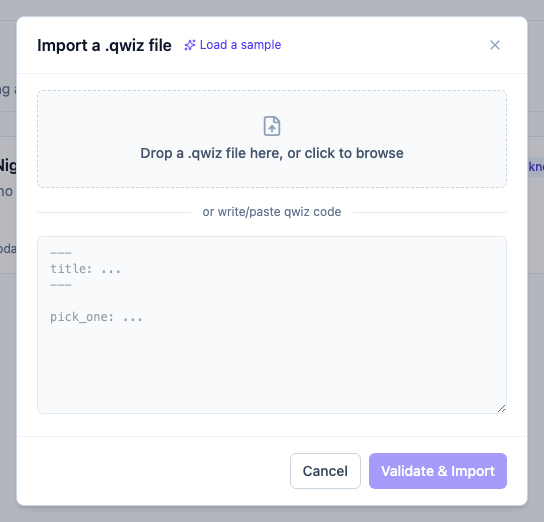
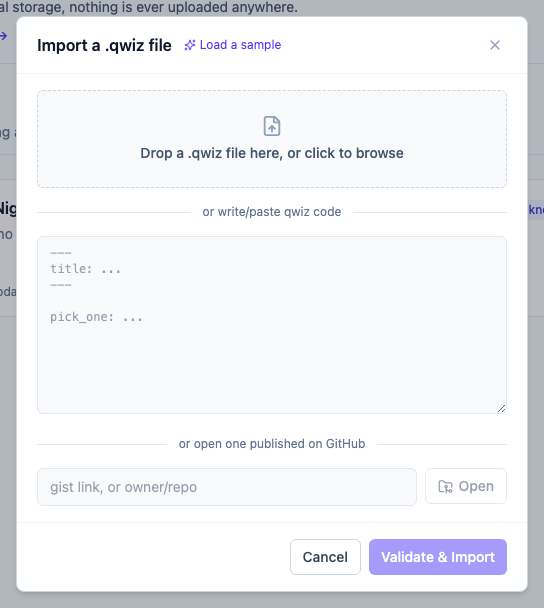
Document the .qwizgroup format, and generate its screenshots
Finishes the docs for the GitHub feature.

docs/llm-reference.md gains §11 on the manifest — text-only, per that file's
own rule, since it exists to be handed to a model in one piece and images are
dead weight there. Also corrects a pre-existing error in its checklist, which
said "one of the eight" variants where the rest of the document correctly says
nine.

Two new generated screenshots, wired into introduction.md and
qwizgroup-format.md: a folders group, and a journey part-way through — one
cleared, one open, one locked, which is the only state that shows what the
mode actually does. Both stub GitHub through the same e2e/utils/github.ts the
test suite uses: a screenshot run must no more depend on a real repository
being reachable than a test run does, and the stub is also what keeps the
images deterministic.

import.png is regenerated because the dialog grew the "open one published on
GitHub" field. Everything else re-rendered byte-identical, which is the
determinism pinning in capture.spec.ts doing its job.

CLAUDE.md records the routing split (folders and journey stay on /group as
browsing screens; the four single-sitting modes live on /group/play) and the
honest cost of each mode, so the next session doesn't rebuild machinery for
the ones that are free.

Final state: 727 unit tests, 884 e2e across four browsers, coverage 93.91%.

diff --git a/screenshots/capture.spec.ts b/screenshots/capture.spec.ts
@@ -4,6 +4,7 @@ import type { Quiz } from '../src/lib/schemas/quiz';
 import { BuilderPage } from '../e2e/pages/BuilderPage';
 import { PlayPage } from '../e2e/pages/PlayPage';
 import { resetStorage, seedQuizzes } from '../e2e/utils/storage';
+import { stubRepo } from '../e2e/utils/github';
 
 // Generates every screenshot in docs/screenshots/, so the images in the README and the docs can be
 // REGENERATED rather than re-captured by hand. The three that existed before this file were taken
@@ -467,4 +468,125 @@ test('settings and import', async ({ page }) => {
   await builder.gotoEdit('shot-settings');
   await builder.shareLink();
   await shotPadded(page, 'share-dialog', page.getByRole('dialog'));
+});
+
+// A quiz group published on GitHub. Stubbed exactly as the e2e suite stubs it (see
+// e2e/utils/github.ts) — a screenshot run must no more depend on a real repository being reachable
+// than a test run does, and a stub also keeps the content deterministic.
+test('quiz groups from GitHub', async ({ page }) => {
+  await page.goto('/');
+  await resetStorage(page);
+
+  const round = (title: string, question: string, right: string, wrong: string) =>
+    [
+      '---',
+      `title: ${title}`,
+      ':shuffle_questions=false',
+      '---',
+      '',
+      question,
+      '{',
+      `=${right}`,
+      `~${wrong}`,
+      '}'
+    ].join('\n');
+
+  await stubRepo(page, 'qwiz-quizzes', 'pub-quiz', {
+    files: {
+      '.qwizgroup': [
+        '---',
+        'title: Thursday Night Quiz',
+        'description: Every round we have ever run, from the easy opener to the decider.',
+        ':mode=folders',
+        '---',
+        '',
+        'quiz: rounds/general-knowledge.qwiz',
+        'title: General Knowledge',
+        '',
+        'quiz: rounds/music.qwiz',
+        'title: Music and Lyrics',
+        '',
+        'quiz: finals/the-decider.qwiz',
+        'title: The Decider'
+      ].join('\n'),
+      'rounds/general-knowledge.qwiz': round(
+        'General Knowledge',
+        'Which planet is closest to the Sun?',
+        'Mercury',
+        'Venus'
+      ),
+      'rounds/music.qwiz': round(
+        'Music and Lyrics',
+        'Who released "Rumours" in 1977?',
+        'Fleetwood Mac',
+        'The Eagles'
+      ),
+      'finals/the-decider.qwiz': round(
+        'The Decider',
+        'What is the capital of Australia?',
+        'Canberra',
+        'Sydney'
+      )
+    }
+  });
+
+  await page.goto('/group?repo=qwiz-quizzes%2Fpub-quiz');
+  await page.getByRole('heading', { name: 'Thursday Night Quiz' }).waitFor();
+  await shotPadded(page, 'group-folders', page.locator('main'));
+
+  // The journey map, part-way through: one cleared, one open, one still locked — the only state
+  // that shows what the mode actually does.
+  await stubRepo(page, 'qwiz-quizzes', 'trail', {
+    files: {
+      '.qwizgroup': [
+        '---',
+        'title: The Qwiz Trail',
+        'description: Clear one to unlock the next, then face the final boss.',
+        ':mode=journey',
+        ':require_win=false',
+        '---',
+        '',
+        'quiz: world-capitals.qwiz',
+        'id: capitals',
+        'title: World Capitals',
+        '',
+        'quiz: spelling-bee.qwiz',
+        'id: spelling',
+        'title: Spelling Bee',
+        'requires: [capitals]',
+        '',
+        'quiz: grand-finale.qwiz',
+        'id: finale',
+        'title: The Grand Finale',
+        'requires: [spelling]',
+        ':require_win=true'
+      ].join('\n'),
+      'world-capitals.qwiz': round('World Capitals', 'Capital of Japan?', 'Tokyo', 'Osaka'),
+      'spelling-bee.qwiz': round(
+        'Spelling Bee',
+        'Which is spelled correctly?',
+        'necessary',
+        'neccessary'
+      ),
+      'grand-finale.qwiz': round('The Grand Finale', 'Capital of Canada?', 'Ottawa', 'Toronto')
+    }
+  });
+
+  // Seeded directly rather than played through: the image needs a specific mid-journey state, and
+  // the store is the honest way to arrange one (same rule the e2e suite follows for seeding).
+  await page.goto('/group?repo=qwiz-quizzes%2Ftrail');
+  await page.evaluate(() =>
+    localStorage.setItem(
+      'qwiz:group-progress',
+      JSON.stringify({
+        'qwiz-quizzes/trail': {
+          plays: { capitals: { completed: true, won: true } },
+          updatedAt: '2025-01-01T00:00:00.000Z'
+        }
+      })
+    )
+  );
+  await page.reload();
+  await page.getByText('1 of 3 cleared').waitFor();
+  await shotPadded(page, 'group-journey', page.locator('main'));
 });

diff --git a/docs/llm-reference.md b/docs/llm-reference.md
@@ -551,11 +551,70 @@ fill_blanks: A ___ angle is exactly 90 degrees.
 
 ---
 
-## 11. Checklist before emitting a file
+## 11. Publishing a set: the `.qwizgroup` file
+
+A `.qwizgroup` file groups several `.qwiz` files published in a public GitHub repository. It is the
+**same syntax** as a `.qwiz` file — a `---` frontmatter fence, then blank-line-separated blocks — so
+everything in §1 about escaping and `:key=value` lines applies unchanged.
+
+```
+---
+title: The Qwiz Trail
+description: Clear one to unlock the next.
+:mode=journey
+:require_win=false
+---
+
+quiz: world-capitals.qwiz
+id: capitals
+
+quiz: spelling-bee.qwiz
+id: spelling
+requires: [capitals]
+
+quiz: grand-finale.qwiz
+id: finale
+requires: [spelling]
+:require_win=true
+```
+
+**Frontmatter** takes `title`, `description`, `category`, `tags` — as a quiz does — plus these
+`:key=value` settings:
+
+- `mode` — `folders` (default) / `journey` / `merge` / `playlist` / `gauntlet` / `shuffle`
+- `require_win` — `true`/`false`, default `false`. `journey` only.
+- `shuffle_quizzes` — `true`/`false`, default `false`. `playlist` only.
+- `pick` — number, default `1`. `shuffle` only.
+- `questions_per_pick` — number, default `1`. `gauntlet` only.
+- `rounds` — number, default `10`. `gauntlet` only.
+- `discover` — `true`/`false`, default `false`. `folders` only.
+
+**Every quiz-wide setting from §6 also works here**, and in `merge` mode becomes the merged quiz's
+own frontmatter. That is how an exam-style draw is written: `:mode=merge` with
+`:questions_per_run=20`.
+
+**Each block** describes one quiz:
+
+- `quiz:` — required. Path to a `.qwiz`, relative to the manifest's folder. Never a URL.
+- `id:` — required in `journey`, optional elsewhere. Defaults to the filename slug.
+- `title:` — optional display name.
+- `group:` — optional section label. `folders` only.
+- `requires:` — inline array of ids. `journey` only.
+- `:key=value` — `require_win` plus any quiz-wide setting, applied to that one quiz.
+
+Rules that are parse errors, not warnings:
+
+1. A key used in a mode it doesn't apply to (e.g. `:rounds` outside `gauntlet`).
+2. An unknown frontmatter field, an unknown block key, or an unknown setting.
+3. A block with no `quiz:` line, or one not ending in `.qwiz`.
+4. Two entries sharing an `id`.
+5. In `journey`: a missing `id:`, a `requires:` naming an id that doesn't exist, or a cycle.
+
+## 12. Checklist before emitting a file
 
 1. Starts with `---`, frontmatter closed with `---`, `title` present.
 2. Every question has a `{ … }` block with at least one option.
-3. Every variant name is one of the eight in §3.
+3. Every variant name is one of the nine in §3.
 4. Every setting key appears in §5 or §6, and every value is in range.
 5. Every setting is allowed on the variant it's attached to.
 6. `order_items`/`match_pairs`/`group_items` use only `=` options; `match_pairs`/`group_items` give every option a

diff --git a/CLAUDE.md b/CLAUDE.md
@@ -50,6 +50,12 @@ Hard constraints — never violate without explicit approval:
   recursive tree call, against a limit of 60/hour shared per IP. That difference is the whole reason
   to publish a manifest, it's what the rate-limit error points at, and it's asserted by tests in
   both `quizGroupSource.test.ts` and `repo-group.spec.ts` rather than left as a comment.
+  **Six modes, and only one of them is real machinery.** `merge`/`shuffle` synthesise a `.qwiz`
+  document the ordinary player runs (`mergeGroup.ts`), so they cost nothing; `folders` is a tree and
+  `playlist` is a loop over `QuizPlayer`'s two optional props (`onFinish`, `continueAction` — its
+  entire group support). `journey` adds an unlock DAG plus the `groupProgress.ts` store, and
+  `gauntlet` is the only one that needed a session of its own, because it draws questions ACROSS
+  quizzes mid-run and so can't be either a synthesised document or a sequence of whole quizzes.
 - **This means the app makes runtime network requests, which it did not before.** It reads public
   files from GitHub, signed out (`credentials: 'omit'`), and persists nothing unless the visitor
   presses "Save a copy". The user's own quizzes still never leave the browser — which is why
@@ -220,6 +226,9 @@ migration.
 │   │   │                        # fetched from a gist/repo pointer. Deliberately NOT under local/,
 │   │   │                        # which means "from this browser's storage"
 │   │   ├── group.astro          # QuizGroupPage, client:only — a .qwizgroup collection in a repo
+│   │   ├── group/play.astro     # GroupRunPage, client:only — merge/shuffle/playlist/gauntlet as
+│   │   │                        # one sitting. folders and journey stay on /group: they're
+│   │   │                        # browsing screens where the player chooses what to open next
 │   │   └── local/
 │   │       ├── create.astro     # QuizBuilder, client:load
 │   │       ├── edit.astro       # QuizEditPage, client:only (reads ?id= at runtime)
@@ -680,6 +689,9 @@ Rules for it:
 
 - **Re-run it after any UI change a documented screen would show, and commit the diff.** A doc
   screenshot showing a control that no longer exists is worse than no screenshot.
+- **The GitHub shots stub GitHub**, via the same `e2e/utils/github.ts` the suite uses. A screenshot
+  run must no more depend on a real repository being reachable than a test run does — and a stub is
+  also what keeps the content deterministic.
 - Everything nondeterministic is pinned, so a re-run with no UI change produces a byte-identical
   image and an empty diff. Keep it that way — anything unpinned puts a spurious binary diff in
   every commit that touches this. Four separate sources had to be nailed down, and all four are

diff --git a/docs/qwizgroup-format.md b/docs/qwizgroup-format.md
@@ -135,6 +135,8 @@ and make the link lie about what it loaded.
 Browse the group as a folder tree and play any quiz in it. Folders come from the file paths, or from
 an explicit `group:` label. This is also what you get with no manifest at all.
 
+![A quiz group browsed as folders](./screenshots/group-folders.png)
+
 ### `journey`
 
 Each quiz unlocks the next, per its `requires:`. `require_win` decides whether _finishing_ a quiz
@@ -153,7 +155,9 @@ playable in any order is shown side by side rather than as a false sequence.
 
 Each node says where you stand: **Ready**, **Played**, **Cleared**, or _Played — win it to clear it_
 for a `require_win` quiz you finished but didn't win. A locked node names what's blocking it
-("Clear World Capitals to unlock") rather than just refusing.
+rather than just refusing:
+
+![A journey part-way through](./screenshots/group-journey.png)
 
 **A clear is permanent.** Replaying a quiz and doing worse never re-locks what it already opened, so
 you can revisit anything without risking your progress.

diff --git a/docs/introduction.md b/docs/introduction.md
@@ -134,6 +134,8 @@ open them by pointer instead:
 
 You can also paste any of those into **Import → "or open one published on GitHub"**.
 
+![A quiz group browsed as folders](./screenshots/group-folders.png)
+
 A repository needs nothing special: point Qwiz at one and it lists every `.qwiz` file in it, using
 the folders as the grouping. Adding a [`.qwizgroup` manifest](./qwizgroup-format.md) is what lets
 you order them, name them, and choose how they're played — as an unlocking journey, one merged
